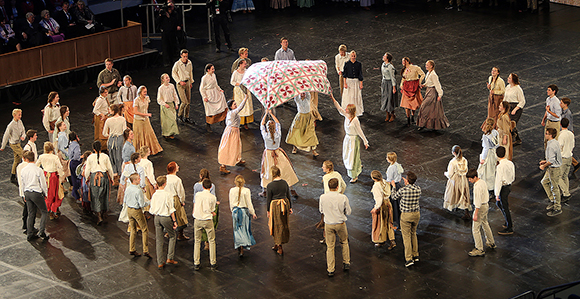
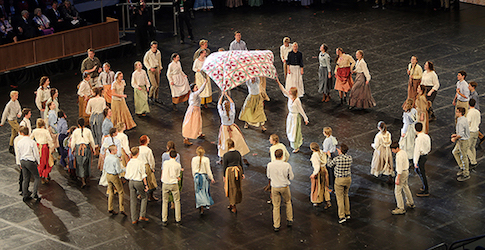
Reduce image filesize and correct broken song link

diff --git a/temple/youth.html b/temple/youth.html
@@ -48,7 +48,7 @@
 		<ul>
 			<li><a href="We the people music.pdf">We the people</a></li>
 			<li><a href="OPENING NUMBER INSTRUCTIONS.docx">Instructions for "We the people"</a></li>
-			<li><a href="_I Have a Mission_ Song.pdf">I have a mission</a></li>
+			<li><a href="I Have a Mission Song.pdf">I have a mission</a></li>
 			<li><a href="Hand Actions.mov">Video of hand motions for "I have a mission"</a></li>
 		</ul>
         
